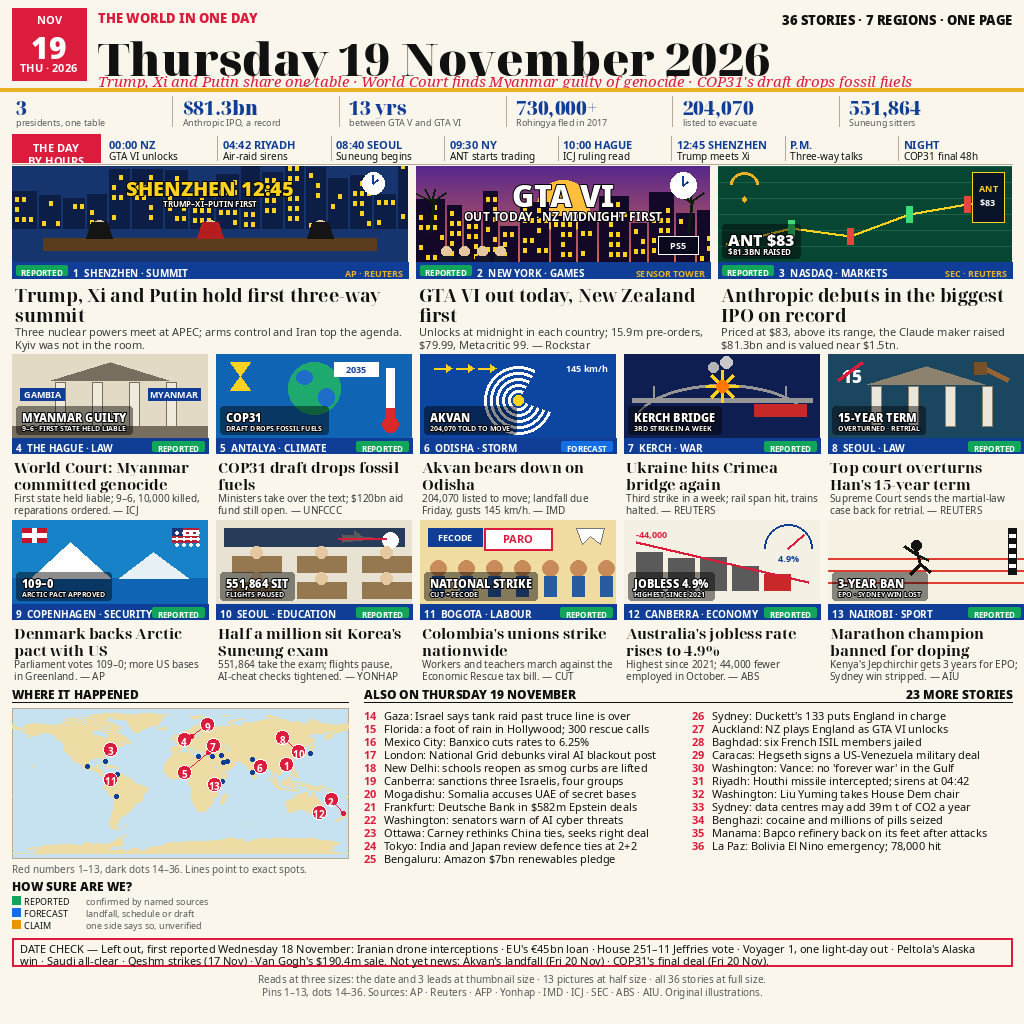
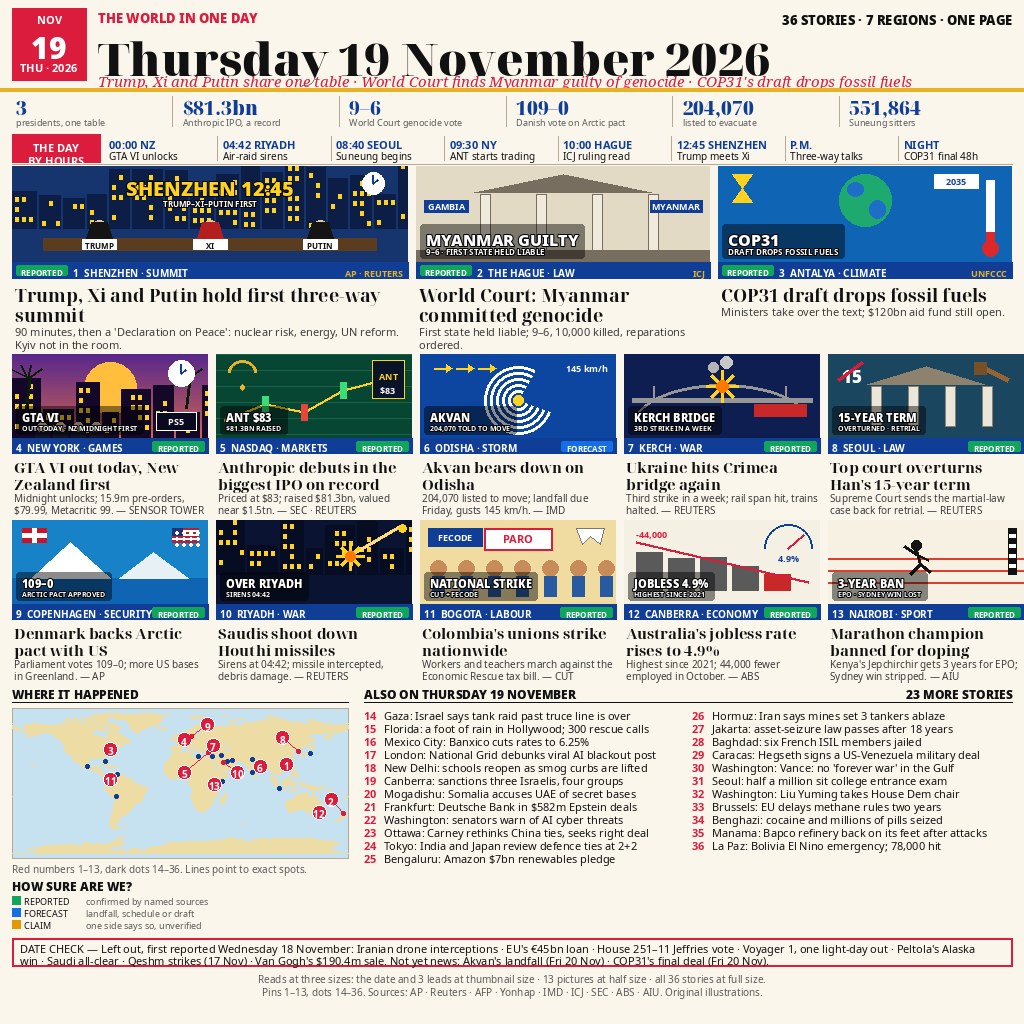
v7: heroes by news importance (ICJ #2, COP31 #3), Riyadh front #10, also Hormuz/Jakarta/Brussels, stats 9-6 + 109-0, summit nameplates, verified Declaration on Peace deck

diff --git a/draw.py b/draw.py
@@ -1,13 +1,14 @@
 #!/usr/bin/env python3
-"""news-image-20261119 v6: 36 stories, newspaper front page after the top 1/2.
+"""news-image-20261119 v7: 36 stories, newspaper front page after the top 1.
 Draws entry.png (1024x1024, deterministic) from world.geo.json only.
-v6 vs v5: better fonts + brighter colours for readability — Noto Serif
-Display Black/Bold for the masthead date, headlines and big numbers,
-Noto Sans Black/Bold for kickers, pills and in-art labels, Noto Sans for
-body text; brighter palette (crimson red, vivid blue, brighter green/blue/
-amber pills, gold rule); map gets a light-blue ocean under brighter sand
-continents; art scenes brightened (summit, Anthropic, COP31, Akvan, Kerch,
-Han, Greenland, marathon).
+v7 vs v6: heroes follow news importance like hazel-harbor-63 (ICJ #2, COP31
+#3; GTA VI + Anthropic move to smalls); Riyadh fronted #10 (Houthi missiles,
+sirens 04:42), Suneung demoted to also #31; also-list gains Hormuz (Iran says
+mines set 3 tankers ablaze), Jakarta (asset-seizure law, 18 years) and
+Brussels (EU delays methane rules 2 years) — all verified live 20 Nov; Sudan
+death sentence EXCLUDED (ruled 18 Nov, not 19 Nov); stats swap in 9-6 and
+109-0; summit art gains TRUMP/XI/PUTIN nameplates; hero-1 deck now states
+the verified 90-minute talks and 'Declaration on Peace'; new riyadh art.
 Run: python3 draw.py  -> writes entry.png in this directory."""
 import json
 import math
@@ -90,24 +91,24 @@ TIMELINE = [
 FRONT = [
     (1, "SHENZHEN", "SUMMIT", "AP \u00b7 REUTERS", "REPORTED",
      "Trump, Xi and Putin hold first three-way summit",
-     "Three nuclear powers meet at APEC; arms control and Iran top the agenda. Kyiv was not in the room.",
+     "90 minutes, then a 'Declaration on Peace': nuclear risk, energy, UN reform. Kyiv not in the room.",
      "SHENZHEN 12:45", "TRUMP\u2013XI\u2013PUTIN FIRST", "summit"),
-    (2, "NEW YORK", "GAMES", "SENSOR TOWER", "REPORTED",
-     "GTA VI out today, New Zealand first",
-     "Unlocks at midnight in each country; 15.9m pre-orders, $79.99, Metacritic 99. \u2014 Rockstar",
-     "GTA VI", "OUT TODAY \u00b7 NZ MIDNIGHT FIRST", "gta"),
-    (3, "NASDAQ", "MARKETS", "SEC \u00b7 REUTERS", "REPORTED",
-     "Anthropic debuts in the biggest IPO on record",
-     "Priced at $83, above its range, the Claude maker raised $81.3bn and is valued near $1.5tn.",
-     "ANT $83", "$81.3BN RAISED", "anthropic"),
-    (4, "THE HAGUE", "LAW", "ICJ", "REPORTED",
+    (2, "THE HAGUE", "LAW", "ICJ", "REPORTED",
      "World Court: Myanmar committed genocide",
      "First state held liable; 9\u20136, 10,000 killed, reparations ordered.",
      "MYANMAR GUILTY", "9\u20136 \u00b7 FIRST STATE HELD LIABLE", "icj"),
-    (5, "ANTALYA", "CLIMATE", "UNFCCC", "REPORTED",
+    (3, "ANTALYA", "CLIMATE", "UNFCCC", "REPORTED",
      "COP31 draft drops fossil fuels",
      "Ministers take over the text; $120bn aid fund still open.",
      "COP31", "DRAFT DROPS FOSSIL FUELS", "cop31"),
+    (4, "NEW YORK", "GAMES", "SENSOR TOWER", "REPORTED",
+     "GTA VI out today, New Zealand first",
+     "Midnight unlocks; 15.9m pre-orders, $79.99, Metacritic 99.",
+     "GTA VI", "OUT TODAY \u00b7 NZ MIDNIGHT FIRST", "gta"),
+    (5, "NASDAQ", "MARKETS", "SEC \u00b7 REUTERS", "REPORTED",
+     "Anthropic debuts in the biggest IPO on record",
+     "Priced at $83; raised $81.3bn, valued near $1.5tn.",
+     "ANT $83", "$81.3BN RAISED", "anthropic"),
     (6, "ODISHA", "STORM", "IMD", "FORECAST",
      "Akvan bears down on Odisha",
      "204,070 listed to move; landfall due Friday, gusts 145 km/h.",
@@ -124,10 +125,10 @@ FRONT = [
      "Denmark backs Arctic pact with US",
      "Parliament votes 109\u20130; more US bases in Greenland.",
      "109\u20130", "ARCTIC PACT APPROVED", "greenland"),
-    (10, "SEOUL", "EDUCATION", "YONHAP", "REPORTED",
-     "Half a million sit Korea's Suneung exam",
-     "551,864 take the exam; flights pause, AI-cheat checks tightened.",
-     "551,864 SIT", "FLIGHTS PAUSED", "suneung"),
+    (10, "RIYADH", "WAR", "REUTERS", "REPORTED",
+     "Saudis shoot down Houthi missiles",
+     "Sirens at 04:42; missile intercepted, debris damage.",
+     "OVER RIYADH", "SIRENS 04:42", "riyadh"),
     (11, "BOGOTA", "LABOUR", "CUT", "REPORTED",
      "Colombia's unions strike nationwide",
      "Workers and teachers march against the Economic Rescue tax bill.",
@@ -156,14 +157,14 @@ ALSO = [
     (23, "Ottawa", "Carney rethinks China ties, seeks right deal"),
     (24, "Tokyo", "India and Japan review defence ties at 2+2"),
     (25, "Bengaluru", "Amazon $7bn renewables pledge"),
-    (26, "Sydney", "Duckett's 133 puts England in charge"),
-    (27, "Auckland", "NZ plays England as GTA VI unlocks"),
+    (26, "Hormuz", "Iran says mines set 3 tankers ablaze"),
+    (27, "Jakarta", "asset-seizure law passes after 18 years"),
     (28, "Baghdad", "six French ISIL members jailed"),
     (29, "Caracas", "Hegseth signs a US-Venezuela military deal"),
     (30, "Washington", "Vance: no 'forever war' in the Gulf"),
-    (31, "Riyadh", "Houthi missile intercepted; sirens at 04:42"),
+    (31, "Seoul", "half a million sit college entrance exam"),
     (32, "Washington", "Liu Yuming takes House Dem chair"),
-    (33, "Sydney", "data centres may add 39m t of CO2 a year"),
+    (33, "Brussels", "EU delays methane rules two years"),
     (34, "Benghazi", "cocaine and millions of pills seized"),
     (35, "Manama", "Bapco refinery back on its feet after attacks"),
     (36, "La Paz", "Bolivia El Nino emergency; 78,000 hit"),
@@ -172,8 +173,8 @@ ALSO = [
 STATS = [
     ("3", "presidents, one table"),
     ("$81.3bn", "Anthropic IPO, a record"),
-    ("13 yrs", "between GTA V and GTA VI"),
-    ("730,000+", "Rohingya fled in 2017"),
+    ("9\u20136", "World Court genocide vote"),
+    ("109\u20130", "Danish vote on Arctic pact"),
     ("204,070", "listed to evacuate"),
     ("551,864", "Suneung sitters"),
 ]
@@ -187,15 +188,15 @@ LEGEND = [
 PINS = {
     1: (114.1, 22.5), 2: (174.8, -36.8), 3: (-74.0, 40.7), 4: (4.5, 52.1),
     5: (30.7, 36.9), 6: (85.8, 20.2), 7: (35.4, 45.3), 8: (127.0, 37.5),
-    9: (12.6, 55.7), 10: (127.0, 37.5), 11: (-74.1, 4.7),
+    9: (12.6, 55.7), 10: (46.7, 24.7), 11: (-74.1, 4.7),
     12: (149.1, -35.3), 13: (36.8, -1.3),
 }
 DOTS = {
     14: (34.4, 31.5), 15: (-80.1, 26.1), 16: (-99.1, 19.4), 17: (-0.1, 51.5),
     18: (77.2, 28.6), 19: (149.1, -35.3), 20: (45.3, 2.0), 21: (8.7, 50.1),
     22: (-77.0, 38.9), 23: (-75.7, 45.4), 24: (139.7, 35.7), 25: (77.6, 13.0),
-    26: (151.2, -33.9), 27: (174.8, -36.8), 28: (44.4, 33.3), 29: (-66.9, 10.5),
-    30: (-77.0, 38.9), 31: (46.7, 24.7), 32: (-77.0, 38.9), 33: (151.2, -33.9),
+    26: (56.3, 26.6), 27: (106.8, -6.2), 28: (44.4, 33.3), 29: (-66.9, 10.5),
+    30: (-77.0, 38.9), 31: (127.0, 37.5), 32: (-77.0, 38.9), 33: (4.4, 50.8),
     34: (20.1, 32.1), 35: (50.6, 26.2), 36: (-68.1, -16.5),
 }
 
@@ -315,6 +316,11 @@ def art_image(key, w, h):
             d.ellipse([cx - 9, h - 42, cx + 9, h - 24], fill=(230, 200, 160))
             d.polygon([(cx - 13, h - 24), (cx + 13, h - 24), (cx + 8, h - 40),
                        (cx - 8, h - 40)], fill=(20, 20, 20) if i != 1 else (180, 30, 30))
+        # nameplates on the table front, like the top-1 entry
+        for i, name in enumerate(("TRUMP", "XI", "PUTIN")):
+            cx = int(w * (0.22 + i * 0.28))
+            d.rectangle([cx - 17, h - 23, cx + 17, h - 13], fill="white")
+            d.text((cx, h - 22), name, font=F_LABEL, fill=INK, anchor="ma")
     elif key == "gta":
         for i in range(h):
             t = i / h
@@ -455,6 +461,18 @@ def art_image(key, w, h):
         d.rectangle([w - 16, 8, w - 8, h - 30], fill="white", outline=INK)
         for i in range(0, h - 38, 10):
             d.rectangle([w - 16, 8 + i, w - 8, 8 + i + 5], fill=INK)
+    elif key == "riyadh":
+        d.rectangle([0, 0, w, h], fill=(10, 20, 50))
+        _skyline(d, w, h, h - 30, (6, 12, 34), 11)
+        # missile trail from top right + explosion star
+        d.line([w - 12, 6, w - 60, 34], fill=(255, 220, 120), width=3)
+        cx, cy = w - 62, 36
+        for a in range(0, 360, 45):
+            d.line([cx, cy, cx + int(14 * math.cos(math.radians(a))),
+                    cy + int(14 * math.sin(math.radians(a)))],
+                   fill=YELLOW, width=3)
+        d.ellipse([cx - 5, cy - 5, cx + 5, cy + 5], fill=(255, 120, 0))
+        d.ellipse([w - 14, 4, w - 6, 12], fill=(255, 210, 31))
     elif key == "ukraine":
         d.rectangle([0, 0, w, h // 2], fill=(0, 90, 180))
         d.rectangle([0, h // 2, w, h], fill=(255, 210, 31))
@@ -559,9 +577,9 @@ def art_image(key, w, h):
 
 # pixel nudges so clustered pins stay readable (map is small): the pin circle
 # moves by (dx, dy) and a thin leader line points back to the true spot.
-# 5 Antalya crowds 7 Kerch; 8 Seoul (Han) collides with 10 Seoul (Suneung);
-# 9 Copenhagen crowds 4 The Hague.
-PIN_OFF = {2: (-12, -14), 5: (-24, 20), 8: (-16, -14), 9: (16, -12)}
+# 5 Antalya crowds 7 Kerch; 8 Seoul (Han) collides with the Suneung dot;
+# 9 Copenhagen crowds 4 The Hague; 10 Riyadh crowds 7 Kerch.
+PIN_OFF = {2: (-12, -14), 5: (-24, 20), 8: (-16, -14), 9: (16, -12), 10: (14, 10)}
 
 
 def draw_map(d, x0, y0, mw, mh):
@@ -655,9 +673,9 @@ def main():
         cx = 12 + sum(hws[:i]) + 8 * i
         im = art_image(key, hw, 96)
         idd = ImageDraw.Draw(im)
-        if num == 1:
+        if key == "summit":
             focal_text(idd, 0, 0, hw, 96, big, small, F_FOC23, F_FOC23_S, "YELLOW", True)
-        elif num == 2:
+        elif key == "gta":
             focal_text(idd, 0, 0, hw, 96, big, small, F_FOC, F_FOC_S, "WHITE", True)
         else:
             art_text(im, idd, 0, 0, hw, 96, big, small, F_LBL, F_LBL_S)
